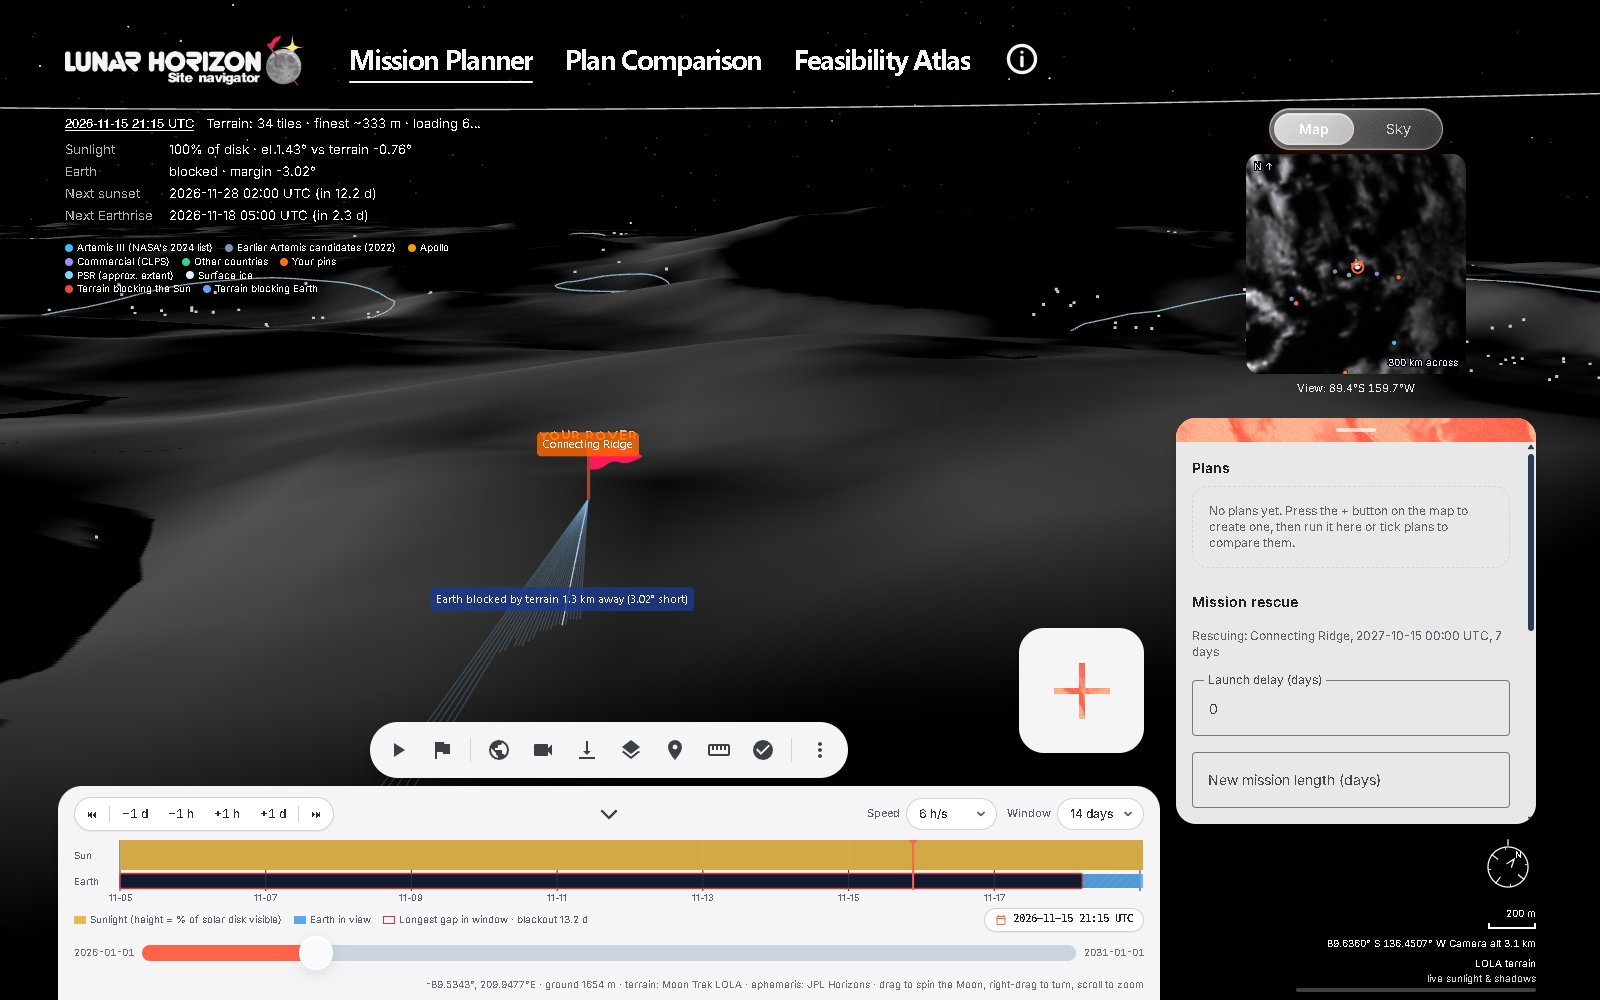
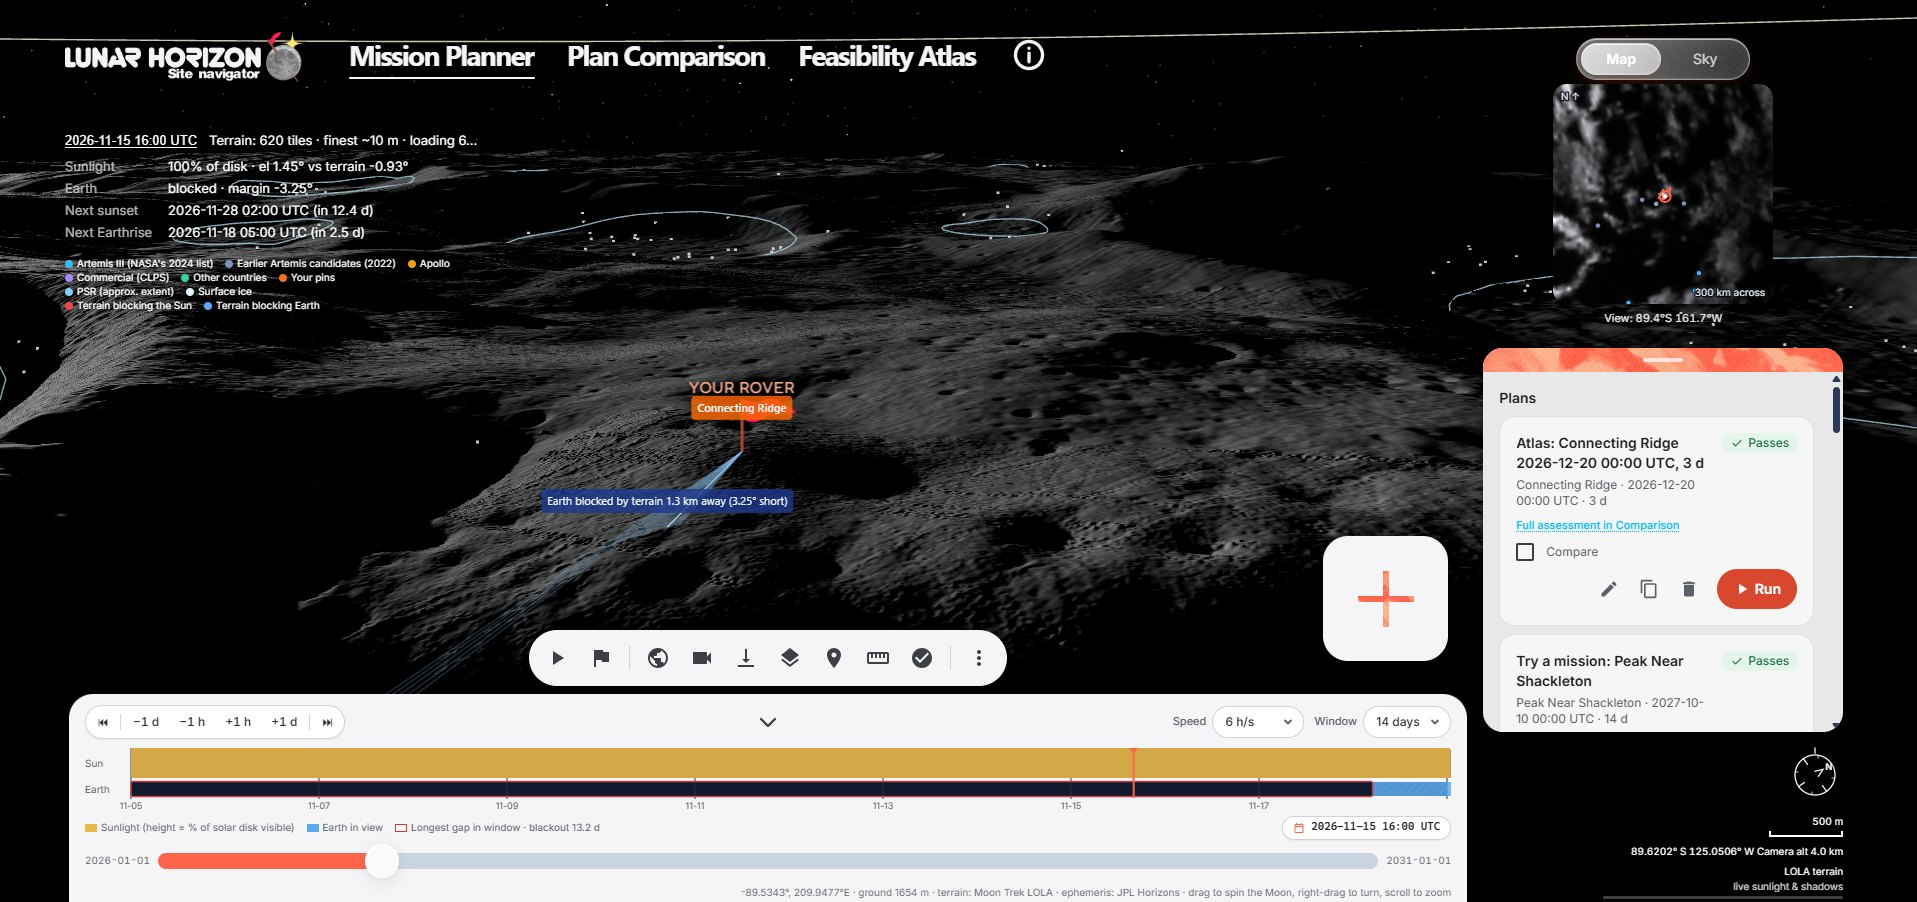
Update "Inside the navigator" carousel screenshots and rover title
Replace the four landing-page preview images with fresh captures of the
current app: Mission Planner (3D map + Plans panel), the 3D rover view
with the sky plot and timeline, Plan Comparison (with the Rover
assistant) and Mission Rescue.

Retitle the second slide "Curiosity rover in 3D" to match its new
screenshot (the rover model is NASA's Curiosity), and update its alt text.

diff --git a/frontend/src/features/landing/content.ts b/frontend/src/features/landing/content.ts
@@ -156,10 +156,10 @@ export const PICTURES: Picture[] = [
   },
   {
     id: 'sky',
-    title: 'Sky plot and timeline',
+    title: 'Curiosity rover in 3D',
     caption: 'Scrub the timeline to see when the Sun or Earth drops below the local horizon.',
     src: '/landing/sky.jpg',
-    alt: 'Polar sky plot and an hourly visibility timeline',
+    alt: "3D model of NASA's Curiosity rover at the landing site, with the polar sky plot and visibility timeline",
   },
   {
     id: 'compare',
